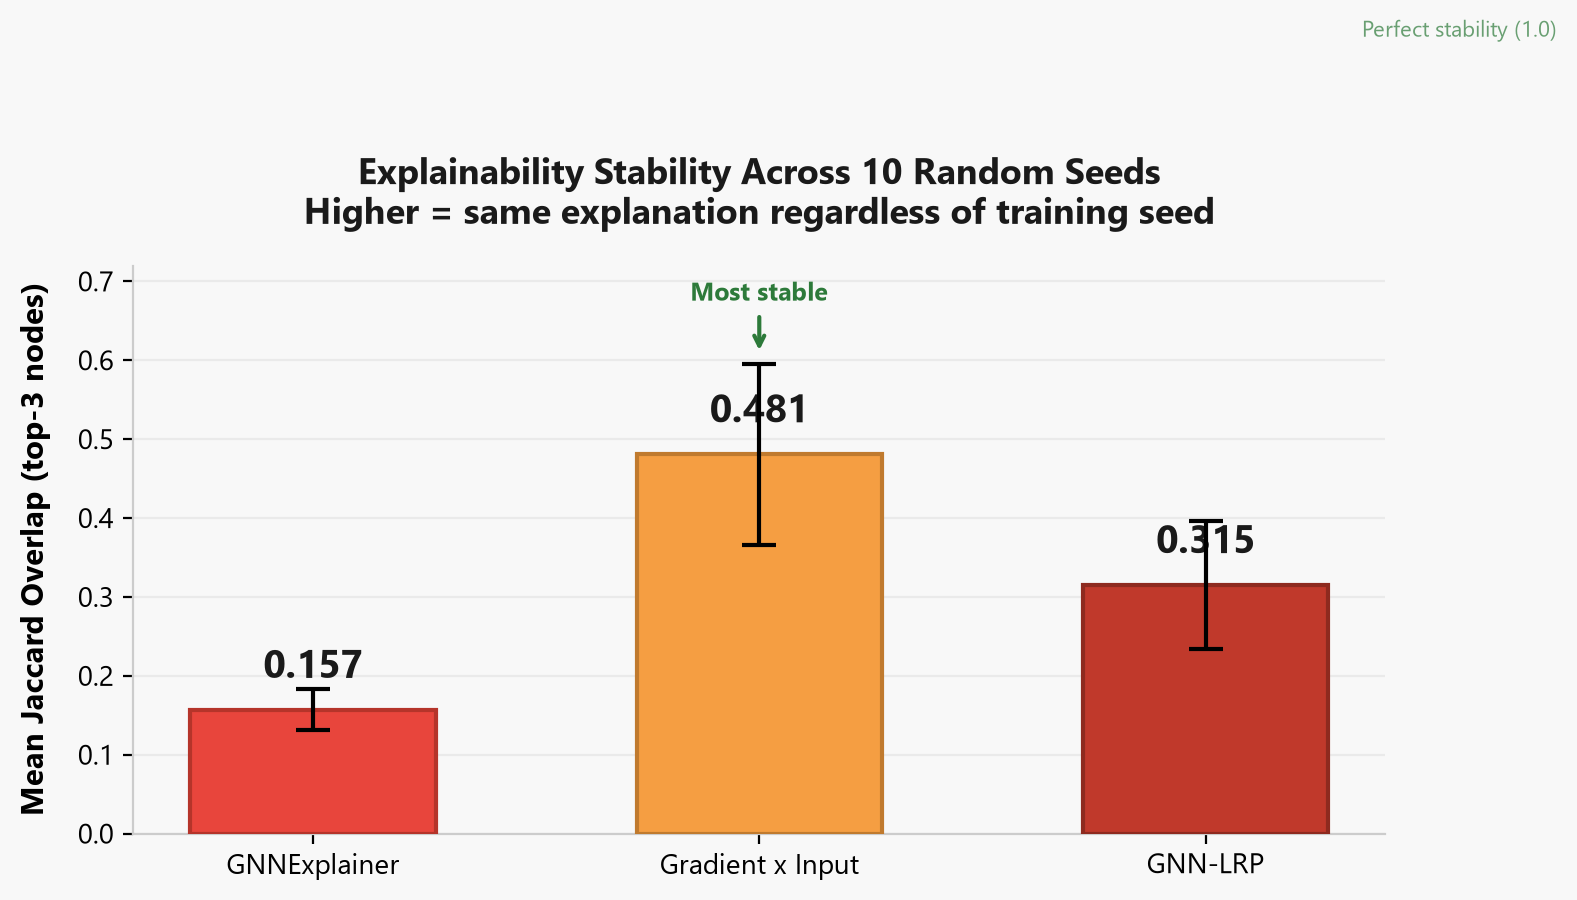
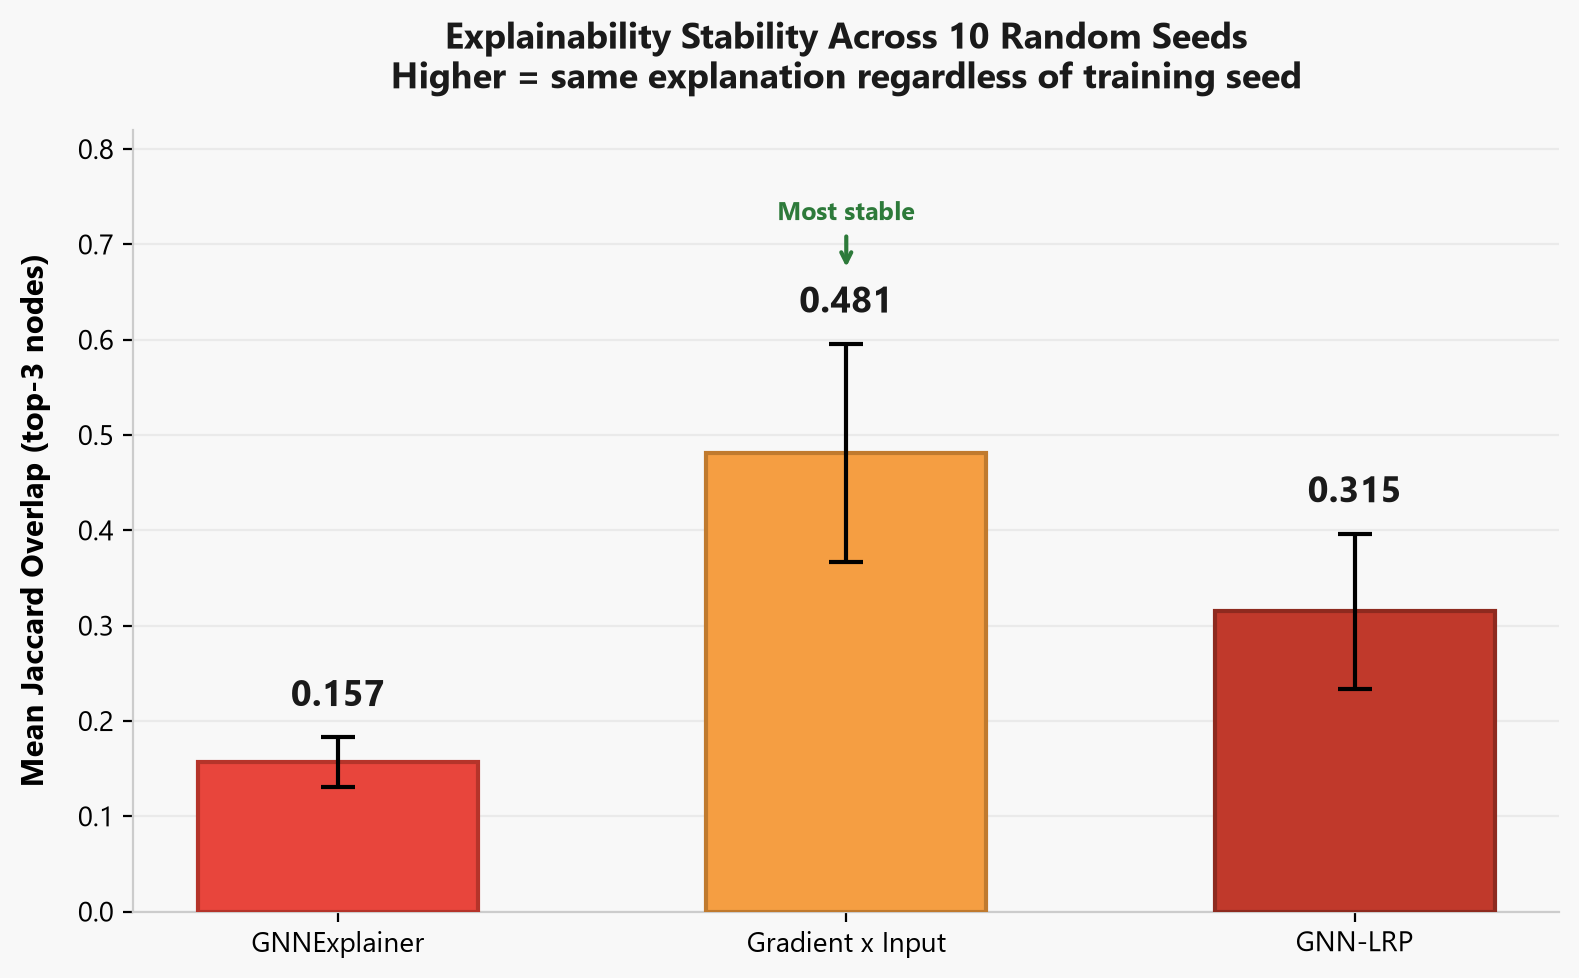
final changes

diff --git a/generate_bar_chart.py b/generate_bar_chart.py
@@ -30,17 +30,12 @@ bars = ax.bar(
     zorder=3
 )
 
-for bar, score in zip(bars, scores):
+for i, (bar, score, std) in enumerate(zip(bars, scores, stds)):
     ax.text(
-        bar.get_x() + bar.get_width() / 2, bar.get_height() + 0.03,
+        bar.get_x() + bar.get_width() / 2, score + std + 0.025,
         f"{score:.3f}",
-        ha='center', va='bottom', fontsize=14, fontweight='bold', color='#1a1a1a'
+        ha='center', va='bottom', fontsize=13, fontweight='bold', color='#1a1a1a'
     )
-
-ax.axhline(y=1.0, color='#2d7a3a', linestyle='--', alpha=0.4, lw=1.2, zorder=1)
-ax.text(2.35, 1.01, "Perfect stability (1.0)", fontsize=8, color='#2d7a3a', alpha=0.7)
-
-ax.axhline(y=0.0, color='#c0392b', linestyle='--', alpha=0.3, lw=1.0, zorder=1)
 
 ax.set_ylabel("Mean Jaccard Overlap (top-3 nodes)", fontsize=11, fontweight='bold', labelpad=10)
 ax.set_title(
@@ -48,8 +43,8 @@ ax.set_title(
     fontsize=13, fontweight='bold', pad=15, color='#1a1a1a'
 )
 
-ax.set_ylim(0, 0.72)
-ax.set_yticks(np.arange(0, 0.8, 0.1))
+ax.set_ylim(0, 0.82)
+ax.set_yticks(np.arange(0, 0.9, 0.1))
 ax.tick_params(axis='both', labelsize=10)
 ax.spines['top'].set_visible(False)
 ax.spines['right'].set_visible(False)
@@ -58,10 +53,11 @@ ax.spines['bottom'].set_color('#cccccc')
 ax.yaxis.grid(True, alpha=0.3, linestyle='-', color='#cccccc', zorder=0)
 
 best_idx = np.argmax(scores)
+best_top = scores[best_idx] + stds[best_idx] + 0.075
 ax.annotate(
     "Most stable",
-    xy=(best_idx, scores[best_idx] + stds[best_idx] + 0.01),
-    xytext=(best_idx, scores[best_idx] + stds[best_idx] + 0.08),
+    xy=(best_idx, best_top),
+    xytext=(best_idx, best_top + 0.055),
     fontsize=9, fontweight='bold', color='#2d7a3a',
     ha='center',
     arrowprops=dict(arrowstyle='->', color='#2d7a3a', lw=1.5)
